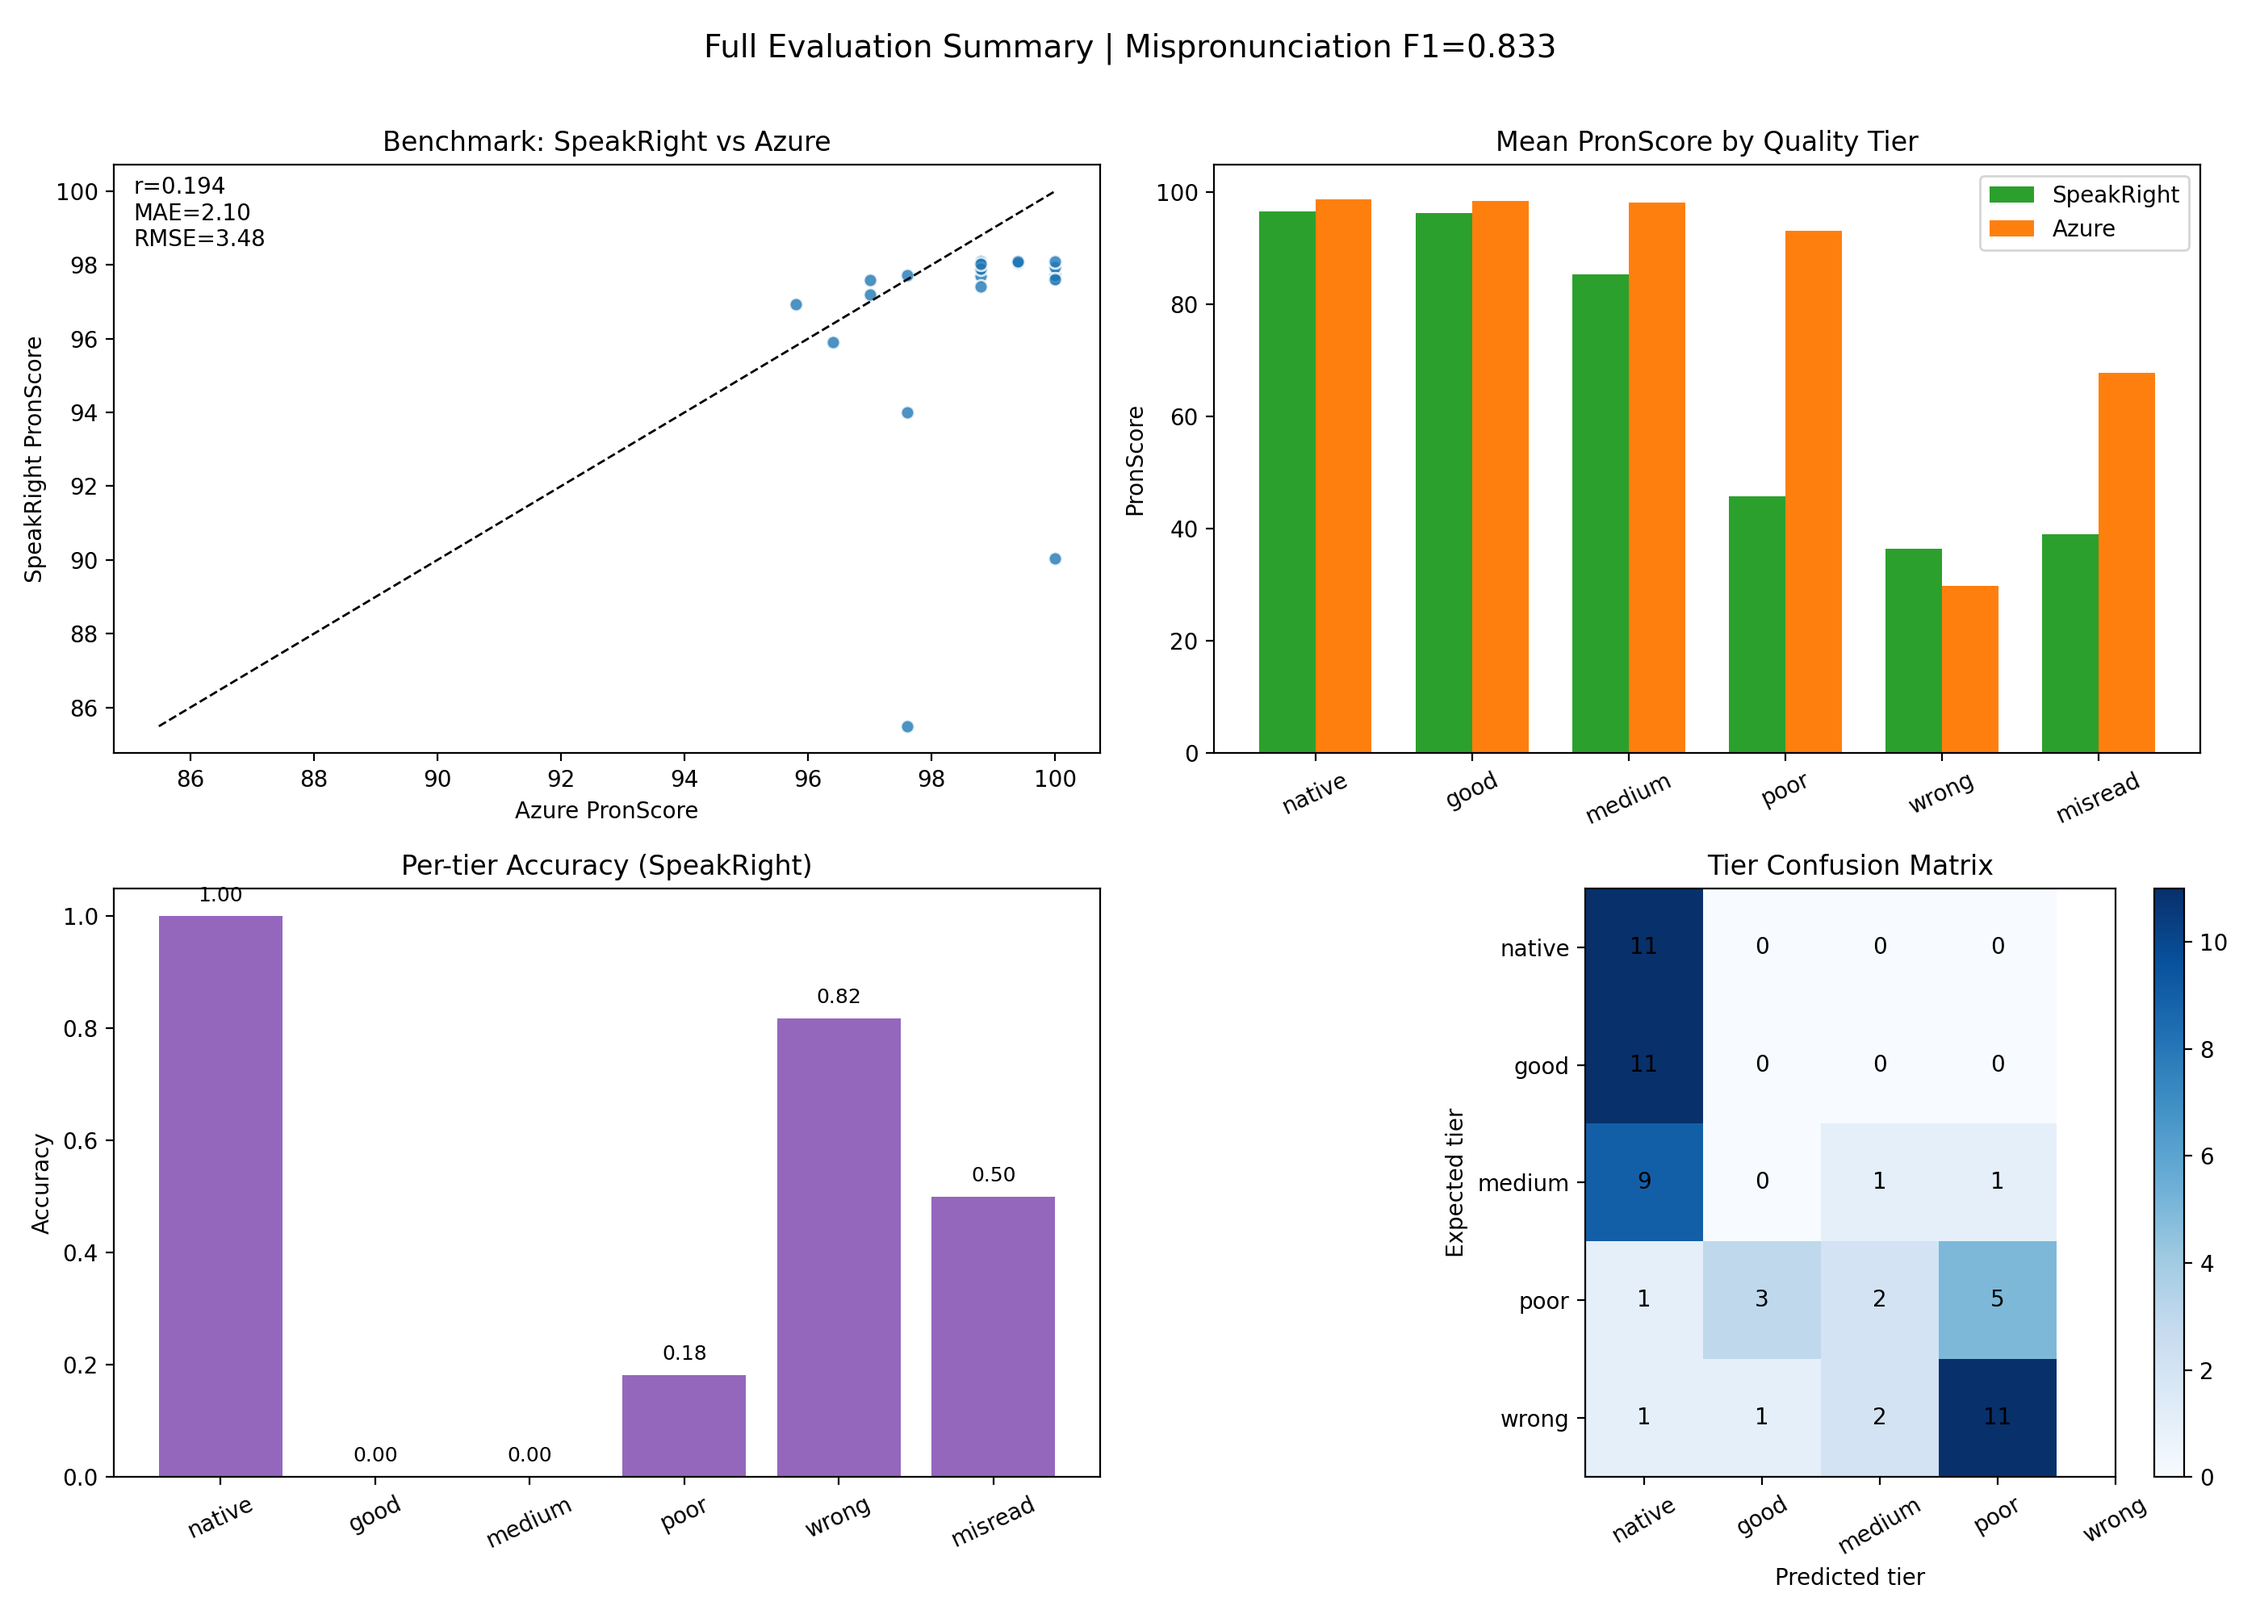
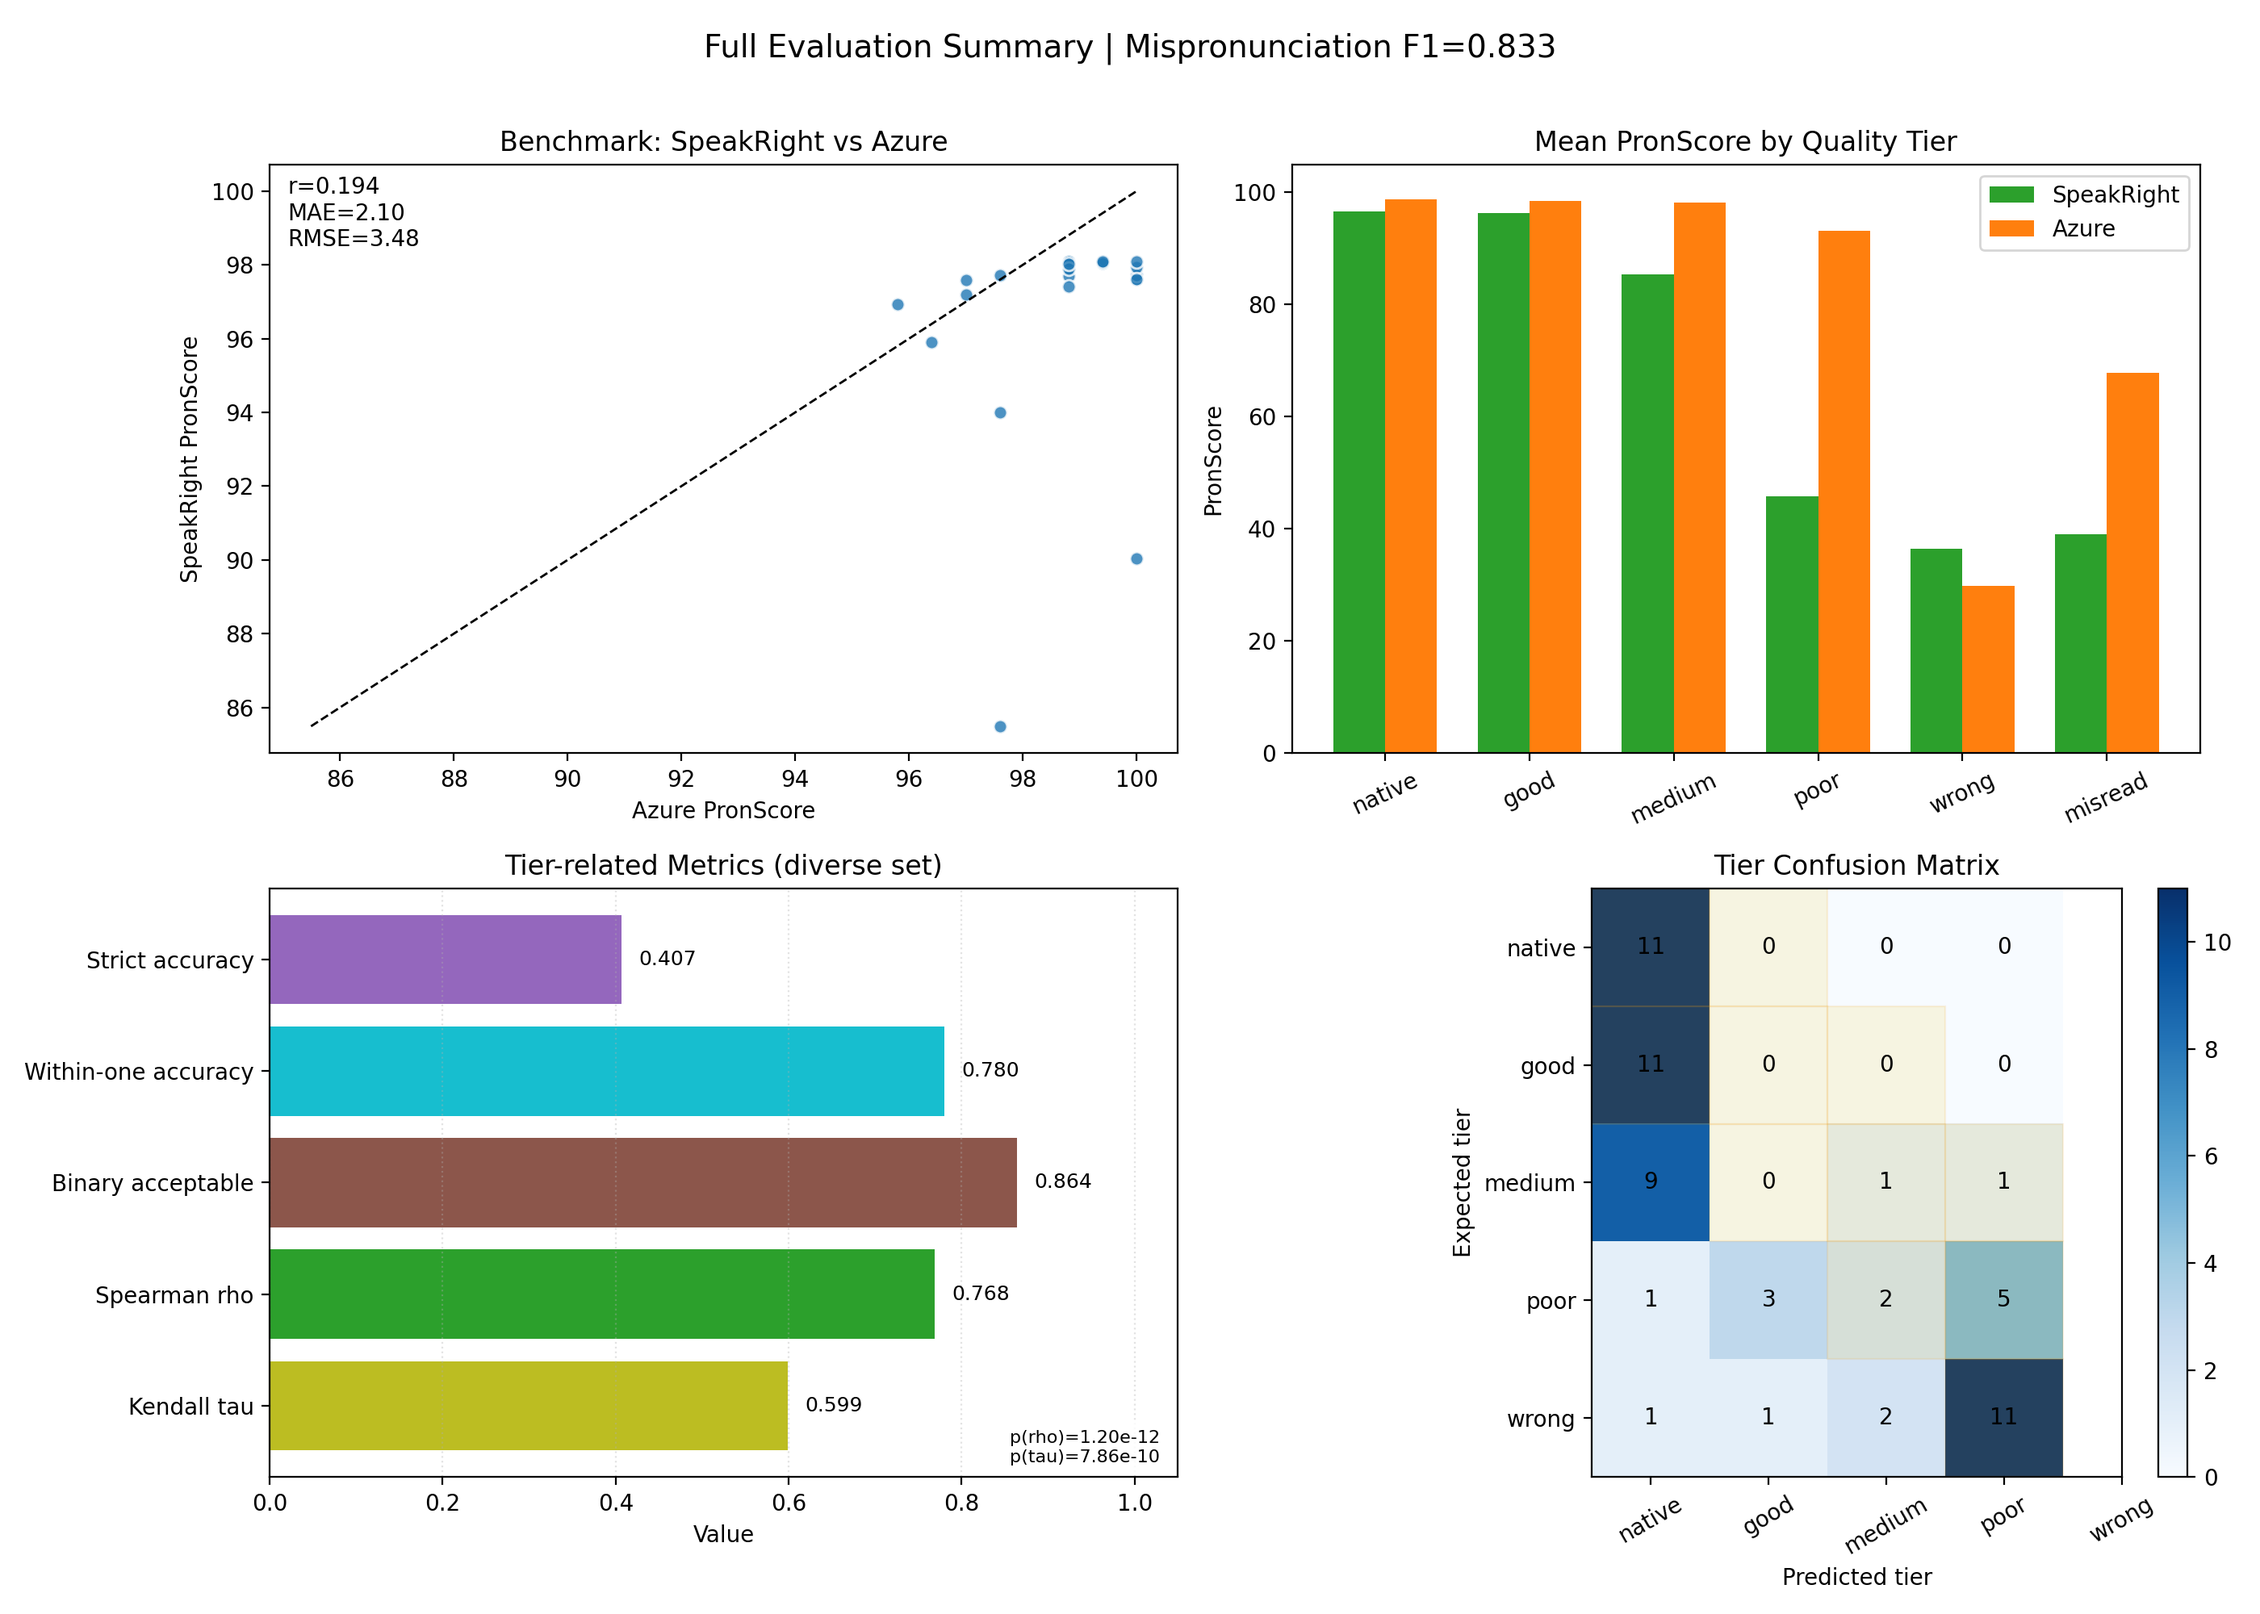
Replace strict tier accuracy with within-one, binary, and ordinal correlation metrics

diff --git a/scripts/full_evaluation.py b/scripts/full_evaluation.py
@@ -1,4 +1,5 @@
 #!/usr/bin/env python3
+# pyright: reportMissingTypeStubs=false, reportAttributeAccessIssue=false, reportUnknownVariableType=false, reportUnknownMemberType=false, reportArgumentType=false, reportUnknownArgumentType=false, reportAny=false, reportUnusedCallResult=false
 """Generate consolidated benchmark metrics and plots.
 
 Reads:
@@ -20,6 +21,8 @@ import matplotlib
 import matplotlib.pyplot as plt
 import numpy as np
 import pandas as pd
+from matplotlib.patches import Rectangle
+from scipy.stats import kendalltau, spearmanr
 
 matplotlib.use("Agg")
 
@@ -27,6 +30,9 @@ matplotlib.use("Agg")
 QUALITY_ORDER = ["native", "good", "medium", "poor", "wrong", "misread"]
 TIER_ORDER = ["native", "good", "medium", "poor", "wrong"]
 MISPRON_QUALITY = {"poor", "wrong", "misread"}
+ACCEPTABLE_QUALITY = {"native", "good", "medium"}
+PROBLEMATIC_QUALITY = {"poor", "wrong", "misread"}
+RANK = {"native": 0, "good": 1, "medium": 2, "poor": 3, "wrong": 4, "misread": 4}
 
 
 def score_to_tier(score: float) -> str:
@@ -112,7 +118,13 @@ def main() -> None:
     diverse_eval["quality"] = diverse_eval["quality"].str.lower()
     diverse_eval["expected_tier"] = diverse_eval["quality"].map(expected_tier_from_quality)
     diverse_eval["pred_tier"] = diverse_eval["speakright_pron"].map(score_to_tier)
+    diverse_eval["expected_rank"] = diverse_eval["quality"].map(RANK)
+    diverse_eval["pred_rank"] = diverse_eval["pred_tier"].map(RANK)
     diverse_eval["tier_match"] = diverse_eval["expected_tier"] == diverse_eval["pred_tier"]
+    diverse_eval["tier_within_one"] = (diverse_eval["expected_rank"] - diverse_eval["pred_rank"]).abs() <= 1
+
+    diverse_eval["expected_binary_problematic"] = diverse_eval["quality"].isin(PROBLEMATIC_QUALITY)
+    diverse_eval["pred_binary_problematic"] = diverse_eval["speakright_pron"] < 60.0
 
     per_tier_accuracy = (
         diverse_eval.groupby("quality")["tier_match"]
@@ -121,7 +133,21 @@ def main() -> None:
         .dropna()
         .to_dict()
     )
-    overall_tier_accuracy = float(diverse_eval["tier_match"].mean())
+    tier_accuracy_strict = float(diverse_eval["tier_match"].mean())
+    tier_accuracy_within_one = float(diverse_eval["tier_within_one"].mean())
+    binary_acceptable_accuracy = float(
+        (diverse_eval["expected_binary_problematic"] == diverse_eval["pred_binary_problematic"]).mean()
+    )
+
+    corr_df = diverse_eval[["expected_rank", "speakright_pron"]].dropna()
+    spearman_r, spearman_p = spearmanr(corr_df["expected_rank"], -corr_df["speakright_pron"])
+    kendall_tau, kendall_p = kendalltau(corr_df["expected_rank"], -corr_df["speakright_pron"])
+    ordinal_correlation = {
+        "spearman_r": float(spearman_r),
+        "spearman_p": float(spearman_p),
+        "kendall_tau": float(kendall_tau),
+        "kendall_p": float(kendall_p),
+    }
 
     y_true = diverse_eval["quality"].isin(MISPRON_QUALITY).astype(int).to_numpy()
     y_pred = (diverse_eval["speakright_pron"] < 60.0).astype(int).to_numpy()
@@ -137,7 +163,11 @@ def main() -> None:
         {"metric": "Pearson r (overall)", "value": round(overall_metrics["pearson_r"], 4)},
         {"metric": "MAE (overall)", "value": round(overall_metrics["mae"], 4)},
         {"metric": "RMSE (overall)", "value": round(overall_metrics["rmse"], 4)},
-        {"metric": "Tier accuracy (overall)", "value": round(overall_tier_accuracy, 4)},
+        {"metric": "Tier accuracy strict (diverse)", "value": round(tier_accuracy_strict, 4)},
+        {"metric": "Tier accuracy within one (diverse)", "value": round(tier_accuracy_within_one, 4)},
+        {"metric": "Binary acceptable accuracy (diverse)", "value": round(binary_acceptable_accuracy, 4)},
+        {"metric": "Spearman rho (diverse tiers)", "value": round(ordinal_correlation["spearman_r"], 4)},
+        {"metric": "Kendall tau (diverse tiers)", "value": round(ordinal_correlation["kendall_tau"], 4)},
         {"metric": "Mispronunciation F1", "value": round(mispron_f1["f1"], 4)},
     ]
 
@@ -145,7 +175,7 @@ def main() -> None:
         if quality in per_tier_accuracy:
             summary_table.append(
                 {
-                    "metric": f"Tier accuracy ({quality})",
+                    "metric": f"Tier accuracy strict ({quality})",
                     "value": round(float(per_tier_accuracy[quality]), 4),
                 }
             )
@@ -164,6 +194,10 @@ def main() -> None:
                 "poor": "40-59.99",
                 "wrong": "<40",
             },
+            "tier_rank_mapping": RANK,
+            "binary_acceptable_labels": sorted(ACCEPTABLE_QUALITY),
+            "binary_problematic_labels": sorted(PROBLEMATIC_QUALITY),
+            "binary_problematic_threshold": "speakright_pron < 60",
             "mispronunciation_threshold": "speakright_pron < 60",
             "mispronunciation_positive_labels": sorted(MISPRON_QUALITY),
         },
@@ -172,8 +206,15 @@ def main() -> None:
             "diverse": diverse_metrics,
             "overall": overall_metrics,
         },
+        "tier_metrics": {
+            "tier_accuracy_strict": tier_accuracy_strict,
+            "tier_accuracy_within_one": tier_accuracy_within_one,
+            "binary_acceptable_accuracy": binary_acceptable_accuracy,
+            "ordinal_correlation": ordinal_correlation,
+        },
         "tier_accuracy": {
-            "overall": overall_tier_accuracy,
+            "overall": tier_accuracy_strict,
+            "strict": tier_accuracy_strict,
             "per_quality": per_tier_accuracy,
         },
         "mispronunciation_detection": mispron_f1,
@@ -212,9 +253,9 @@ def main() -> None:
 
     ax = axes[0, 1]
     grouped = (
-        diverse.groupby("quality")[["speakright_pron", "azure_pron"]]
+        diverse_eval.groupby("quality")[["speakright_pron", "azure_pron"]]
         .mean()
-        .reindex([q for q in QUALITY_ORDER if q in set(diverse["quality"].str.lower())])
+        .reindex([q for q in QUALITY_ORDER if q in set(diverse_eval["quality"])])
     )
     x = np.arange(len(grouped.index))
     width = 0.36
@@ -228,16 +269,42 @@ def main() -> None:
     ax.legend()
 
     ax = axes[1, 0]
-    per_tier_items = [(k, per_tier_accuracy[k]) for k in QUALITY_ORDER if k in per_tier_accuracy]
-    labels = [k for k, _ in per_tier_items]
-    values = [v for _, v in per_tier_items]
-    ax.bar(labels, values, color="#9467bd")
-    ax.set_ylim(0, 1.05)
-    ax.set_title("Per-tier Accuracy (SpeakRight)")
-    ax.set_ylabel("Accuracy")
-    ax.tick_params(axis="x", rotation=25)
-    for i, value in enumerate(values):
-        ax.text(i, value + 0.02, f"{value:.2f}", ha="center", va="bottom", fontsize=9)
+    metric_labels = [
+        "Strict accuracy",
+        "Within-one accuracy",
+        "Binary acceptable",
+        "Spearman rho",
+        "Kendall tau",
+    ]
+    metric_values = [
+        tier_accuracy_strict,
+        tier_accuracy_within_one,
+        binary_acceptable_accuracy,
+        ordinal_correlation["spearman_r"],
+        ordinal_correlation["kendall_tau"],
+    ]
+    metric_colors = ["#9467bd", "#17becf", "#8c564b", "#2ca02c", "#bcbd22"]
+    ypos = np.arange(len(metric_labels))
+    ax.barh(ypos, metric_values, color=metric_colors)
+    ax.set_yticks(ypos)
+    ax.set_yticklabels(metric_labels)
+    ax.invert_yaxis()
+    ax.set_xlim(0, 1.05)
+    ax.set_xlabel("Value")
+    ax.set_title("Tier-related Metrics (diverse set)")
+    ax.grid(axis="x", linestyle=":", alpha=0.35)
+    for i, value in enumerate(metric_values):
+        ax.text(min(value + 0.02, 1.01), i, f"{value:.3f}", va="center", ha="left", fontsize=9)
+    ax.text(
+        0.98,
+        0.02,
+        f"p(rho)={ordinal_correlation['spearman_p']:.2e}\np(tau)={ordinal_correlation['kendall_p']:.2e}",
+        transform=ax.transAxes,
+        ha="right",
+        va="bottom",
+        fontsize=8,
+        bbox={"facecolor": "white", "alpha": 0.85, "edgecolor": "none"},
+    )
 
     ax = axes[1, 1]
     cm = pd.crosstab(
@@ -245,6 +312,20 @@ def main() -> None:
         pd.Categorical(diverse_eval["pred_tier"], categories=TIER_ORDER),
     )
     im = ax.imshow(cm.values, cmap="Blues")
+    for i in range(cm.shape[0]):
+        for j in range(cm.shape[1]):
+            if abs(i - j) <= 1:
+                ax.add_patch(
+                    Rectangle(
+                        (j - 0.5, i - 0.5),
+                        1,
+                        1,
+                        facecolor="#f1c40f",
+                        edgecolor="#f39c12",
+                        linewidth=0.8,
+                        alpha=0.12,
+                    )
+                )
     ax.set_title("Tier Confusion Matrix")
     ax.set_xlabel("Predicted tier")
     ax.set_ylabel("Expected tier")
@@ -261,7 +342,7 @@ def main() -> None:
         f"Full Evaluation Summary | Mispronunciation F1={mispron_f1['f1']:.3f}",
         fontsize=14,
     )
-    fig.tight_layout(rect=[0, 0, 1, 0.97])
+    fig.tight_layout(rect=(0, 0, 1, 0.97))
 
     summary_png_path = results_dir / "evaluation_summary.png"
     fig.savefig(summary_png_path, dpi=200)
